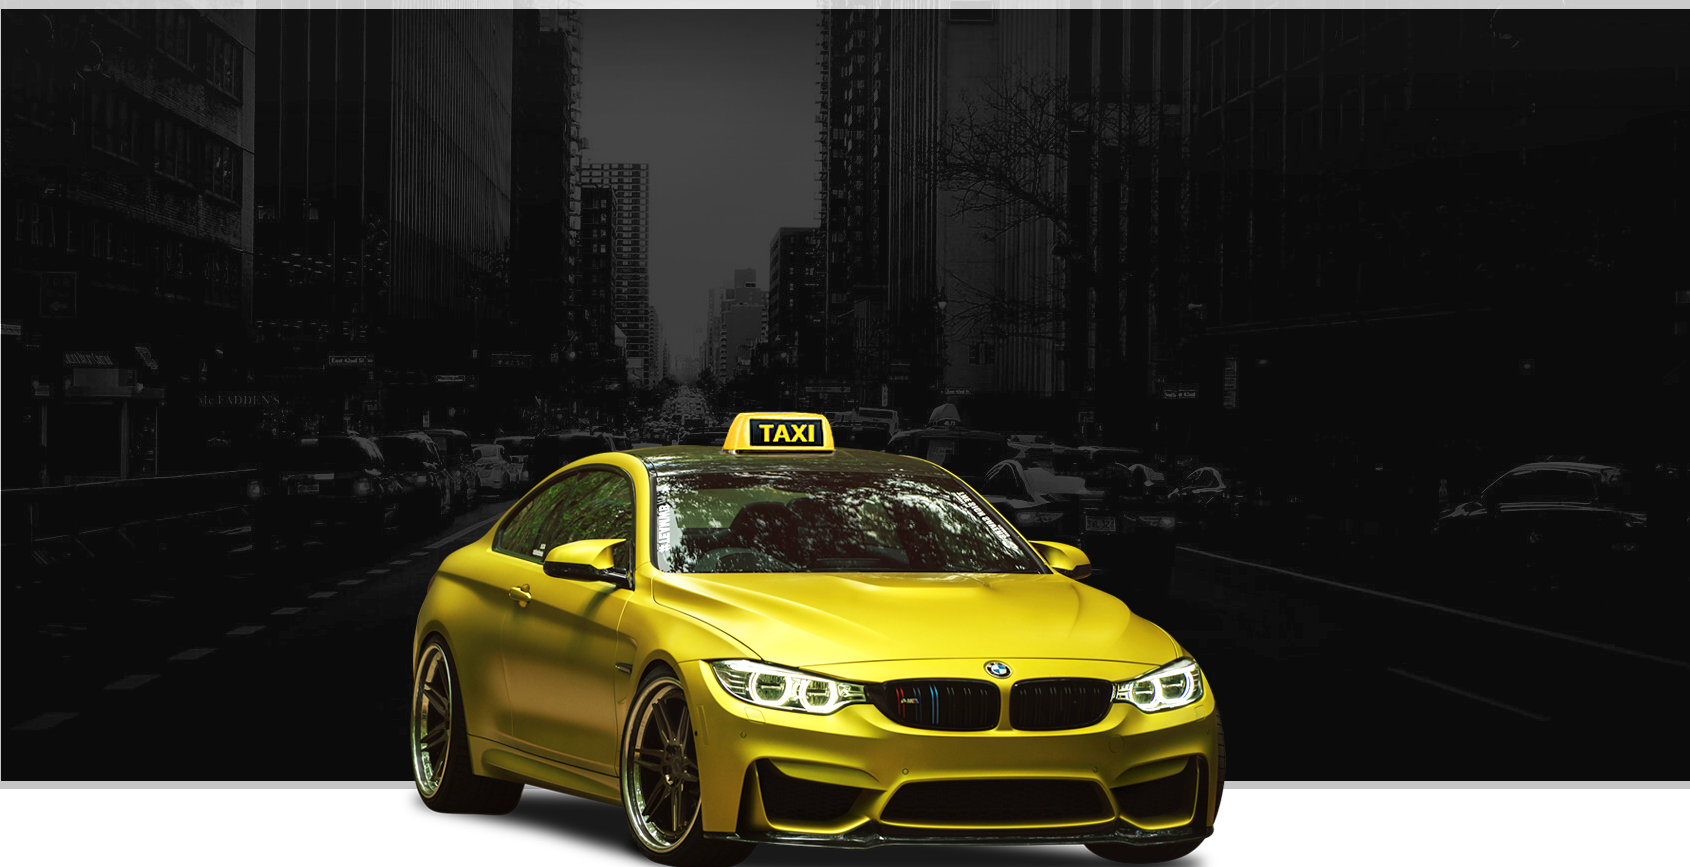
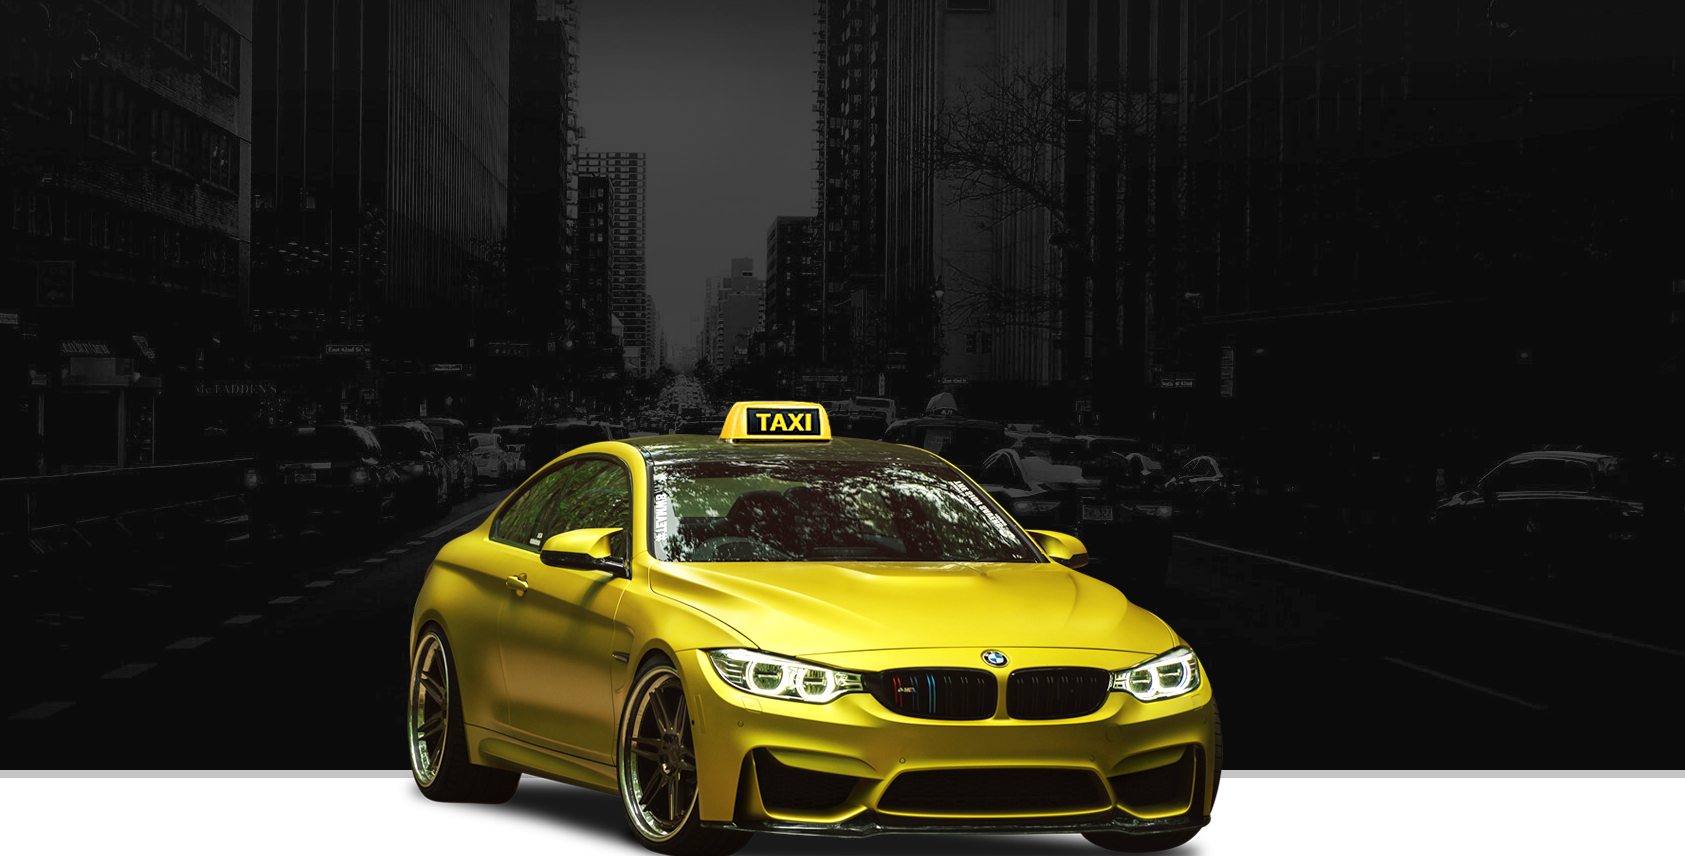
фон первого экрана

diff --git a/index.html b/index.html
@@ -14,11 +14,10 @@
 
 <header>
 	
-	<div class="container">
-		<div class="fonts">
-		 <div class="row menu-bar">
+	<div class="container fonts">
+		<div class="row">
 		<div class ='col-xl-2'>Лого</div>
-		<div class="col-xl-8 ml-auto">
+		<div class="col-xl-10 ml-auto">
 <nav>
 	<ul class="menu d-flex menu-bar">
 		<li class="menu__item" ><a href="#">Главная</a></li>
@@ -33,16 +32,14 @@
 	</div>
 
 		<h1 class="header__title col-xl-12">+375 29 622 10 66<br/>+375 29 292 61 10 </h1>
-		
+				
+	</div>
 	
-	</div>
-	</div>
-	</div>
-</header>
+</header >
 	<div class="container screen">
 		 <div class="row">
-		<div class ='col-xl-6'>текст</div>
-		<div class ='col-xl-6'>форма</div>
+		<div class ='col-xl-6'></div>
+		<div class ='col-xl-6'></div>
 	</div>
 </div>
 

diff --git a/css/style.css b/css/style.css
@@ -13,7 +13,11 @@ ul,li{
 	
 	background: url(../static/images/head1.png)100% 100% no-repeat;
 	background-size: cover; /* Масштабируем фон */
-	height: 620px; 
+	height: 650px; 
+	
+	z-index: 5;
+	background-color: #ffc61a;
+
 }
 
 .menu__item{
@@ -27,9 +31,14 @@ padding: 90px 0;
 text-align: center;
 color: #ffffff;	
 }
-
+.marg{
+	margin-top: 20px;
+	
+}
 .screen{
+	
 	background-color: #ffc61a;
 	text-align: center;	
 	height: 420px;
+	z-index: 2;
 }
